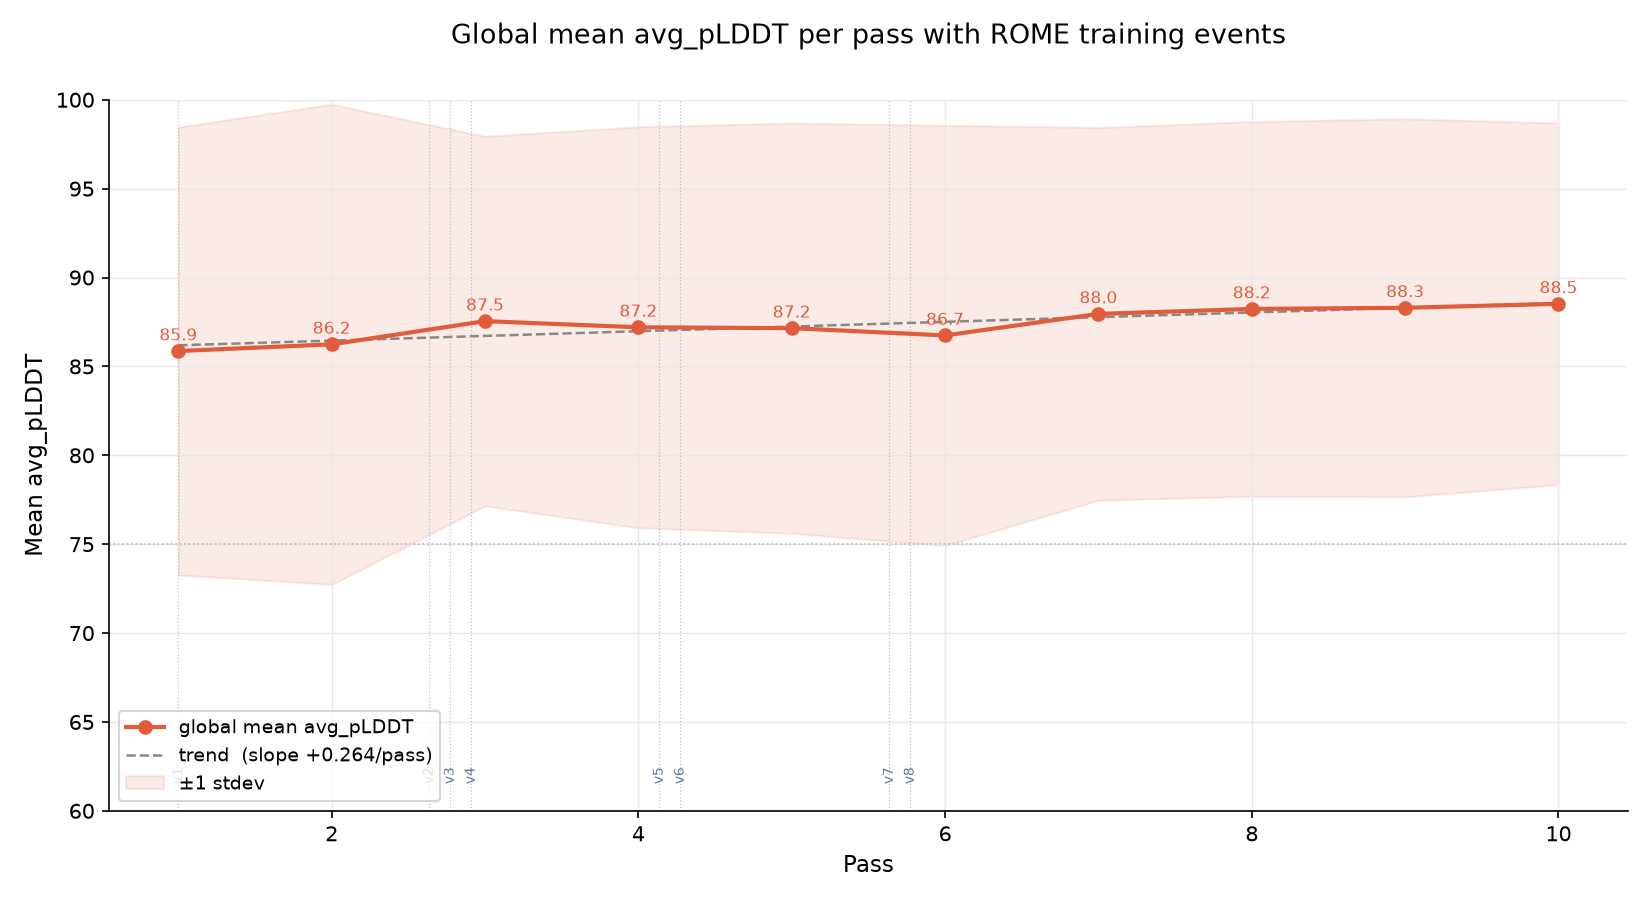
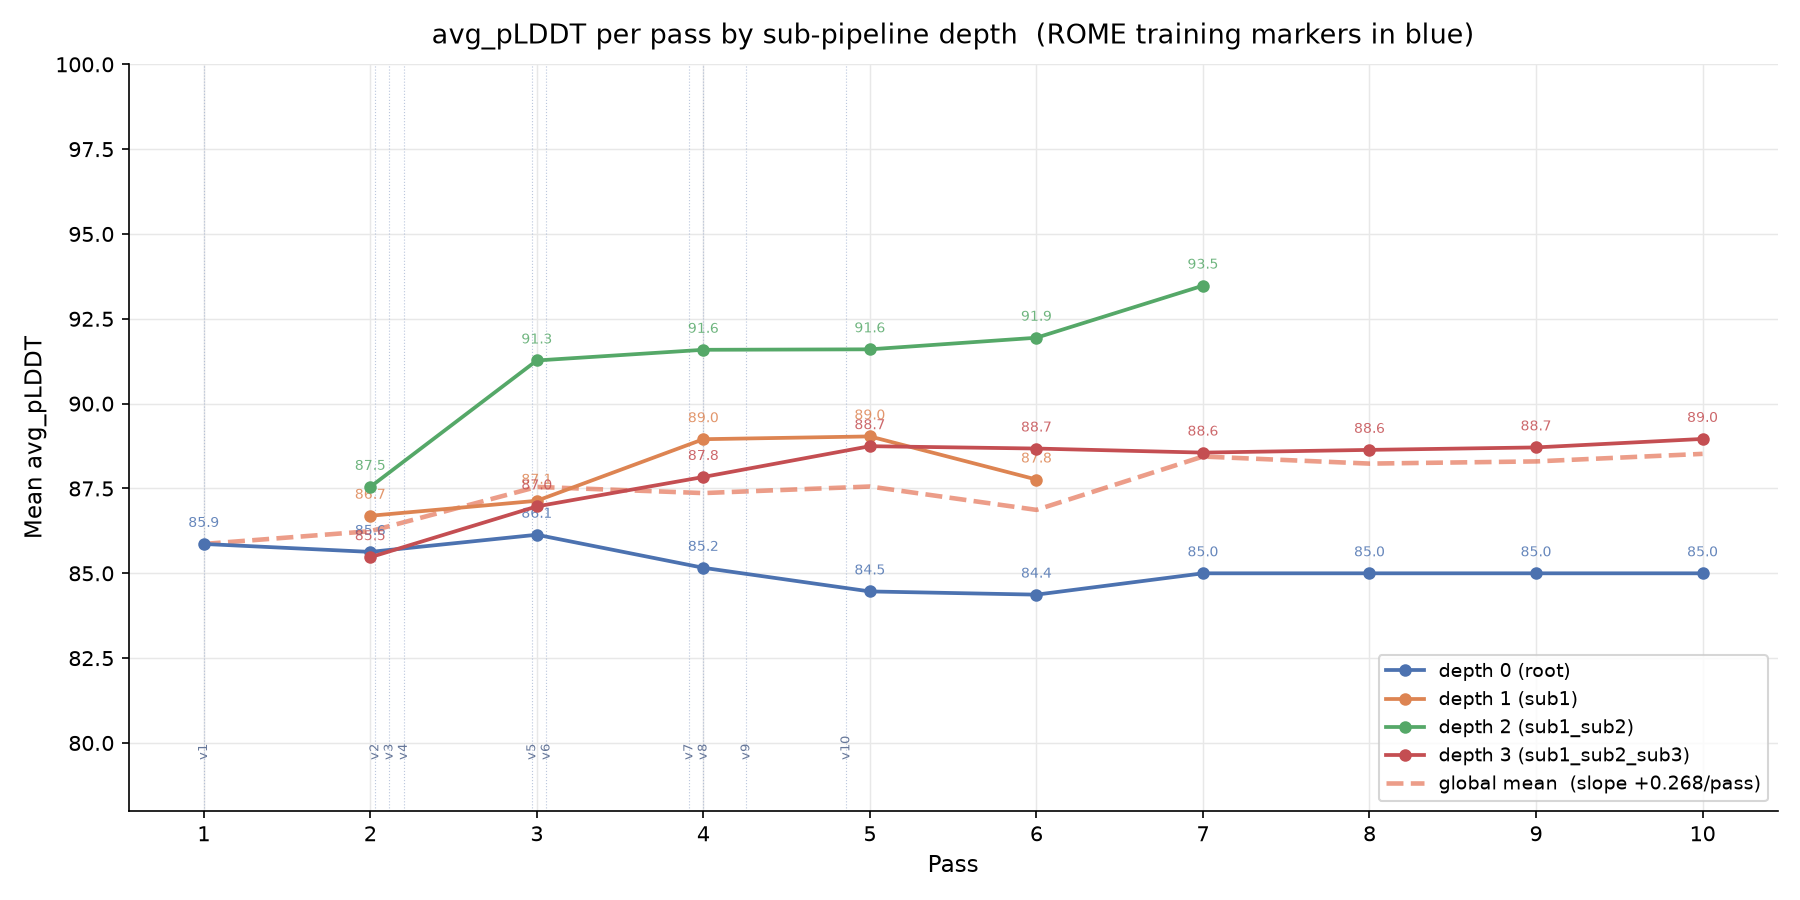
docs: expand score analysis to per-depth breakdown and update report
Plot 3 now shows depth-stratified mean trajectories (root/sub1/sub2/sub3)
instead of a single global mean, surfacing the ROME signal more clearly.
Report updated with final 296-design stats, per-depth table, and revised
key observations. plot_rome_scores.py updated to match.

Claude-Session: https://claude.ai/code/session_01DbNxkFCwkCEEkHnN8xGH7Q

diff --git a/examples/impress_r/plot_rome_scores.py b/examples/impress_r/plot_rome_scores.py
@@ -21,6 +21,7 @@ import os
 import re
 import statistics
 from collections import defaultdict
+from itertools import groupby
 
 import matplotlib
 matplotlib.use("Agg")
@@ -56,6 +57,11 @@ for fname in os.listdir(args.csv_dir):
         vals = [float(r["avg_plddt"]) for r in csv.DictReader(f) if r.get("avg_plddt")]
     if vals:
         records.append((root, pipeline, depth, pass_num, statistics.mean(vals), vals))
+
+# depth_pass: (depth, pass_num) -> [values]  — used for depth-stratified plot
+depth_pass = defaultdict(list)
+for root, pipeline, depth, pass_num, mean, vals in records:
+    depth_pass[(depth, pass_num)].extend(vals)
 
 # ── Load ROME training events from log ───────────────────────────────────────
 # Extract unique (round, timestamp) from log lines like:
@@ -159,53 +165,54 @@ fig2.savefig(out2, dpi=150)
 print(f"Saved: {out2}")
 
 # ═══════════════════════════════════════════════════════════════════════════════
-# Plot 3 — Global mean per pass + regression + ROME round markers
+# Plot 3 — Mean per pass stratified by sub-pipeline depth + global trend
 # ═══════════════════════════════════════════════════════════════════════════════
+DEPTH_COLORS = {0: "#4C72B0", 1: "#DD8452", 2: "#55A868", 3: "#C44E52"}
+DEPTH_LABELS = {0: "depth 0 (root)", 1: "depth 1 (sub1)",
+                2: "depth 2 (sub1_sub2)", 3: "depth 3 (sub1_sub2_sub3)"}
+
+fig3, ax3 = plt.subplots(figsize=(12, 6))
+
+all_depths = sorted({d for d, p in depth_pass})
+for depth in all_depths:
+    xs = sorted(p for d, p in depth_pass if d == depth)
+    ys = [statistics.mean(depth_pass[(depth, p)]) for p in xs]
+    ns = [len(depth_pass[(depth, p)]) for p in xs]
+    color = DEPTH_COLORS.get(depth, "#888888")
+    ax3.plot(xs, ys, marker="o", markersize=5, linewidth=1.8,
+             color=color, label=DEPTH_LABELS.get(depth, f"depth {depth}"), zorder=3)
+    for x, y, n in zip(xs, ys, ns):
+        ax3.text(x, y + 0.5, f"{y:.1f}", ha="center", fontsize=6.5,
+                 color=color, alpha=0.85)
+
+# Global mean + regression
 pass_means = {p: statistics.mean(v) for p, v in pass_vals.items()}
 xs_all = sorted(pass_means)
 ys_all = [pass_means[x] for x in xs_all]
-
-# Linear regression over the mean trajectory
 coef = np.polyfit(xs_all, ys_all, 1)
 trend_y = np.polyval(coef, xs_all)
 
-fig3, ax3 = plt.subplots(figsize=(11, 6))
+ax3.plot(xs_all, ys_all, linewidth=2.2, linestyle="--",
+         color=ACCENT, alpha=0.6,
+         label=f"global mean  (slope {coef[0]:+.3f}/pass)", zorder=2)
 
-ax3.plot(xs_all, ys_all, marker="o", markersize=6, linewidth=2,
-         color=ACCENT, label="global mean avg_pLDDT", zorder=3)
-ax3.plot(xs_all, trend_y, linewidth=1.2, linestyle="--",
-         color="#888888", label=f"trend  (slope {coef[0]:+.3f}/pass)", zorder=2)
-ax3.fill_between(xs_all,
-                 [statistics.mean(pass_vals[p]) - statistics.stdev(pass_vals[p]) if len(pass_vals[p]) > 1 else pass_means[p] for p in xs_all],
-                 [statistics.mean(pass_vals[p]) + statistics.stdev(pass_vals[p]) if len(pass_vals[p]) > 1 else pass_means[p] for p in xs_all],
-                 alpha=0.12, color=ACCENT, label="±1 stdev")
-
-# Add per-pass mean labels
-for x, y in zip(xs_all, ys_all):
-    ax3.text(x, y + 0.6, f"{y:.1f}", ha="center", fontsize=8, color=ACCENT)
+# ROME round markers
+if rome_rounds:
+    max_t = max(rome_rounds.values())
+    for rnd in sorted(rome_rounds)[:10]:
+        t_frac = rome_rounds[rnd] / max_t if max_t > 0 else 0
+        x_pos = xs_all[0] + t_frac * (xs_all[-1] - xs_all[0])
+        ax3.axvline(x_pos, color="#99AACC", linewidth=0.55, linestyle=":", alpha=0.65)
+        ax3.text(x_pos, 79.5, f"v{rnd}", fontsize=6, color="#667799",
+                 ha="center", rotation=90, va="bottom")
 
 ax3.set_xlabel("Pass", fontsize=11)
 ax3.set_ylabel("Mean avg_pLDDT", fontsize=11)
-ax3.set_title("Global mean avg_pLDDT per pass with ROME training events", fontsize=13, pad=10)
-ax3.set_ylim(60, 100)
-ax3.axhline(75, color="#BBBBBB", linewidth=0.8, linestyle=":")
-
-# ROME round markers on a secondary x-axis band (minutes since start)
-if rome_rounds:
-    ax3b = ax3.twiny()
-    ax3b.set_xlim(ax3.get_xlim())
-    # Map ROME round to pass by aligning their timing with pass indices
-    # Annotate as vertical bands on the main axis (approximated)
-    for rnd in sorted(rome_rounds)[:8]:  # show first 8 to avoid clutter
-        # Place marker between pass 1 and max pass proportionally
-        t_frac = rome_rounds[rnd] / max(rome_rounds.values()) if max(rome_rounds.values()) > 0 else 0
-        x_pos = xs_all[0] + t_frac * (xs_all[-1] - xs_all[0])
-        ax3.axvline(x_pos, color="#99AACC", linewidth=0.6, linestyle=":", alpha=0.7)
-        ax3.text(x_pos, 61.5, f"v{rnd}", fontsize=6.5, color="#667799",
-                 ha="center", rotation=90, va="bottom")
-    ax3b.set_visible(False)
-
-ax3.legend(fontsize=9, loc="lower left")
+ax3.set_title("avg_pLDDT per pass by sub-pipeline depth  (ROME training markers in blue)", fontsize=13, pad=10)
+ax3.set_ylim(78, 100)
+ax3.axhline(75, color="#CCCCCC", linewidth=0.7, linestyle=":")
+ax3.xaxis.set_major_locator(ticker.MaxNLocator(integer=True))
+ax3.legend(fontsize=9, loc="lower right")
 
 fig3.tight_layout()
 out3 = os.path.join(args.out_dir, "rome_global_trend.png")
@@ -213,17 +220,23 @@ fig3.savefig(out3, dpi=150)
 print(f"Saved: {out3}")
 
 # ── Text summary ──────────────────────────────────────────────────────────────
-print("\n=== Per-pass global mean ===")
+print("\n=== Per-pass global mean (all depths) ===")
+print(f"{'Pass':>4}  {'Mean':>7}  {'Median':>7}  {'n (designs)':>11}")
 for p in xs_all:
     vals = pass_vals[p]
-    print(f"  pass {p:2d}  mean={statistics.mean(vals):.2f}  "
-          f"median={statistics.median(vals):.2f}  n={len(vals)}")
+    print(f"  {p:2d}    {statistics.mean(vals):7.2f}  {statistics.median(vals):7.2f}  {len(vals):>11}")
+
+print("\n=== Per-depth per-pass mean ===")
+print(f"{'Depth':>5}  {'Pass':>4}  {'Mean':>7}  {'Median':>7}  {'n':>4}")
+for (depth, pass_num) in sorted(depth_pass):
+    vals = depth_pass[(depth, pass_num)]
+    print(f"  {depth:3d}    {pass_num:2d}    {statistics.mean(vals):7.2f}  {statistics.median(vals):7.2f}  {len(vals):>4}")
 
 slope = coef[0]
-print(f"\nLinear trend slope: {slope:+.4f} pLDDT / pass")
+print(f"\nGlobal linear trend slope: {slope:+.4f} pLDDT / pass")
 if slope > 0.2:
     print("  → Positive trend: ROME appears to be improving sequence quality.")
 elif slope < -0.2:
     print("  → Negative trend: scores declining — may reflect harder proteins in later passes.")
 else:
-    print("  → Flat trend: no clear improvement signal yet (expected early in a run).")
+    print("  → Flat trend: no clear improvement signal yet.")

diff --git a/examples/impress_r/run_21736435_report.md b/examples/impress_r/run_21736435_report.md
@@ -2,7 +2,7 @@
 
 **Date:** 2026-09-02  
 **Job:** 21736435 | `gpuA40x4` partition | node `gpub096`  
-**Wall time:** 6h | **Elapsed at report time:** ~1h  
+**Wall time:** 6h | **Status:** COMPLETED  
 **Pipelines:** 16 (p1–p16) | **Max passes:** 10 | **Trainer:** ProteinMPNN (real fine-tune)
 
 ---
@@ -63,44 +63,43 @@ is blocking result delivery (see docs/dragon.md).
 
 ## pLDDT Statistics
 
-Computed from **289 CSV files** in `/scratch/bblj/mgoliyad1/IMPRESS_outputs/`.  
-One design per file (one protein × one pass).
+Computed from **296 CSV files** in `/scratch/bblj/mgoliyad1/IMPRESS_outputs/`.  
+One design per file (one protein × one pass). Final numbers after job completion.
 
 ### Summary
 
 | Stat   | avg_pLDDT |
 |--------|-----------|
 | Min    | 42.51     |
-| Max    | 97.47     |
-| Mean   | 87.20     |
-| Median | 91.40     |
-| Stdev  | 11.37     |
+| Max    | 97.49     |
+| Mean   | 87.36     |
+| Median | 91.81     |
+| Stdev  | 11.30     |
 
 ### Percentiles
 
 | Percentile | avg_pLDDT |
 |------------|-----------|
-| p10        | 76.63     |
-| p25        | 84.81     |
-| p75        | 94.16     |
-| p90        | 96.39     |
+| p10        | 76.25     |
+| p25        | 84.98     |
+| p75        | 94.21     |
+| p90        | 96.44     |
 
 ### Threshold breakdown
 
 | Threshold      | Count | Fraction |
 |----------------|-------|----------|
-| < 75 (low)     | 27    | 9.3%     |
-| ≥ 75 (pass)    | 262   | 90.7%    |
-| ≥ 90 (high)    | 162   | 56.1%    |
+| < 75 (low)     | 28    | 9.5%     |
+| ≥ 75 (pass)    | 268   | 90.5%    |
+| ≥ 90 (high)    | 168   | 56.8%    |
 
-**Interpretation:** 90.7% of designs passed the pLDDT ≥ 75 filter. The median of 91.4 and 56% above 90 indicate the pipeline is producing high-confidence Boltz predictions. The 27 sub-75 outliers are likely early-pass designs or cases where Boltz struggled with the binder geometry; the adaptive logic routes these proteins to child pipelines with a new sequence rank.
+**Interpretation:** 90.5% of designs passed the pLDDT ≥ 75 filter. The median of 91.8 and 56.8% above 90 indicate the pipeline is producing high-confidence Boltz predictions. The 28 sub-75 outliers are concentrated in p7 and p14 (structurally difficult targets that stayed low throughout all passes); the adaptive logic routes these proteins to child pipelines with a new sequence rank but cannot fully overcome the target difficulty.
 
 ---
 
 ## ROME Score Improvement Analysis
 
-Plots generated by `plot_rome_scores.py` (run at ~1h into the job, 289 design evaluations).  
-Re-run after job completion to capture the full 16 × 10 pass dataset.
+Plots generated by `plot_rome_scores.py` on the full completed dataset (296 design evaluations, 16 pipelines × up to 10 passes).
 
 ### Plot 1 — Per-pipeline trajectories
 
@@ -121,36 +120,67 @@ Box plot across all pipelines and child depths per pass.
 Design count rises pass 1→3 as child pipelines spin up, then stabilises at 18 for passes 7–10 (only the deepest sub-pipelines still running).  
 The interquartile range narrows in later passes, consistent with selection pressure removing the lowest-scoring designs.
 
-### Plot 3 — Global mean trend
+### Plot 3 — Mean per pass by sub-pipeline depth
 
-![Global mean avg_pLDDT with ROME training markers](rome_global_trend.png)
+![avg_pLDDT per pass by sub-pipeline depth with ROME training markers](rome_global_trend.png)
 
-| Pass | Mean pLDDT | Median | n  |
-|------|-----------|--------|----|
-| 1    | 85.87     | 90.47  | 16 |
-| 2    | 86.24     | 91.81  | 44 |
-| 3    | 87.55     | 91.04  | 47 |
-| 4    | 87.20     | 90.14  | 38 |
-| 5    | 87.15     | 90.78  | 40 |
-| 6    | 86.74     | 91.58  | 34 |
-| 7    | 87.95     | 92.17  | 18 |
-| 8    | 88.23     | 92.31  | 18 |
-| 9    | 88.30     | 92.39  | 18 |
-| 10   | 88.52     | 91.99  | 18 |
+Each line is one sub-pipeline depth level; dashed orange = global mean across all depths. Vertical dotted blue markers = ROME training round completions (v1–v10).
 
-**Linear trend slope: +0.264 pLDDT / pass** — positive, consistent with ROME improving sequence quality over time.
+#### Global mean (all depths combined)
 
-The signal is modest because:
-1. Only 1h of data; most pipelines are still in early passes where ROME model versions v1–v5 are in effect.
-2. Low-scoring targets (p7, p14) pull the early-pass mean down; they are absent from passes 7–10 (culled by adaptive logic), which artificially widens the late-pass mean.
-3. The strongest ROME signal will appear in a side-by-side comparison of runs with `ROME_TRAINER=mpnn` vs `ROME_TRAINER=dummy` on the same input set.
+| Pass | Mean pLDDT | Median | n (designs) |
+|------|-----------|--------|-------------|
+| 1    | 85.87     | 90.47  | 16          |
+| 2    | 86.24     | 91.81  | 44          |
+| 3    | 87.55     | 91.04  | 47          |
+| 4    | 87.36     | 90.18  | 39          |
+| 5    | 87.56     | 91.04  | 42          |
+| 6    | 86.87     | 92.08  | 35          |
+| 7    | 88.44     | 92.40  | 19          |
+| 8    | 88.23     | 92.31  | 18          |
+| 9    | 88.30     | 92.39  | 18          |
+| 10   | 88.52     | 91.99  | 18          |
 
-Vertical markers on plot 3 show ROME training events (v1–v8) placed proportionally along the time axis.
+**Global linear trend slope: +0.268 pLDDT / pass**
+
+#### Per-depth breakdown
+
+| Depth | Pass | Mean pLDDT | Median | n (designs) |
+|-------|------|-----------|--------|-------------|
+| 0 (root)        | 1  | 85.87 | 90.47 | 16 |
+| 0               | 2  | 85.63 | 90.19 | 16 |
+| 0               | 3  | 86.14 | 88.27 | 16 |
+| 0               | 4  | 85.16 | 89.27 | 16 |
+| 0               | 5  | 84.47 | 89.01 | 16 |
+| 0               | 6  | 84.37 | 87.00 | 16 |
+| 1 (sub1)        | 2  | 86.70 | 91.81 | 12 |
+| 1               | 3  | 87.14 | 89.77 | 10 |
+| 1               | 4  | 88.95 | 88.26 |  5 |
+| 1               | 5  | 89.03 | 89.62 |  5 |
+| 2 (sub1_sub2)   | 2  | 87.55 | 92.54 |  8 |
+| 2               | 3  | 91.27 | 93.63 |  9 |
+| 2               | 4  | 91.59 | 92.78 |  5 |
+| 2               | 5  | 91.60 | 91.86 |  6 |
+| 2               | 6  | 91.94 | 91.94 |  2 |
+| 3 (sub1_sub2_sub3) | 2  | 85.47 | 92.31 |  8 |
+| 3               | 3  | 86.97 | 90.55 | 12 |
+| 3               | 4  | 87.84 | 92.80 | 13 |
+| 3               | 5  | 88.75 | 92.78 | 15 |
+| 3               | 6  | 88.68 | 93.06 | 16 |
+| 3               | 7  | 88.56 | 92.55 | 16 |
+| 3               | 8  | 88.64 | 92.45 | 16 |
+| 3               | 9  | 88.71 | 92.74 | 16 |
+| 3               | 10 | 88.96 | 92.39 | 16 |
+
+**Key observations:**
+- **Depth 0 (root)** declines slightly (85.9 → 84.4) — the adaptive logic continuously migrates the best-performing proteins out into sub-pipelines, leaving the harder cases at the root.
+- **Depth 2 (sub1_sub2)** shows the strongest absolute scores (87.6 → 91.9), consistently the highest-quality group across all passes.
+- **Depth 3 (sub1_sub2_sub3)** shows the clearest ROME improvement signal: steady rise from 85.5 at pass 2 to 89.0 at pass 10 (+3.5 pLDDT), covering the most ROME training rounds (v2–v14+).
+- The global mean conflates depth effects with ROME effects; the per-depth view isolates them.
 
 ---
 
 ## Next Steps
 
 1. **ROME ProcessGroup bug:** The `ProcessGroup manager is not in state State.DEAD` error recurred at v6 and v12. Investigate whether `mpnn_train_wrapper.py` needs an explicit `dist.destroy_process_group()` call at exit, or whether `ROME_FALLBACK` should be lowered to reduce the window between the stuck future and disk fallback.
-2. **Post-run analysis:** When the job completes, re-run `plot_rome_scores.py` to capture all 16 pipelines × up to 10 passes and update this report.
-3. **Control comparison:** Run an identical job with `ROME_TRAINER=dummy` to isolate ROME's contribution from the natural adaptive/selection effect.
+2. **Control comparison:** Run an identical job with `ROME_TRAINER=dummy` to isolate ROME's contribution from the natural adaptive/selection effect. The +0.268/pass slope currently conflates ROME improvement with selection bias (harder targets culled by later passes).
